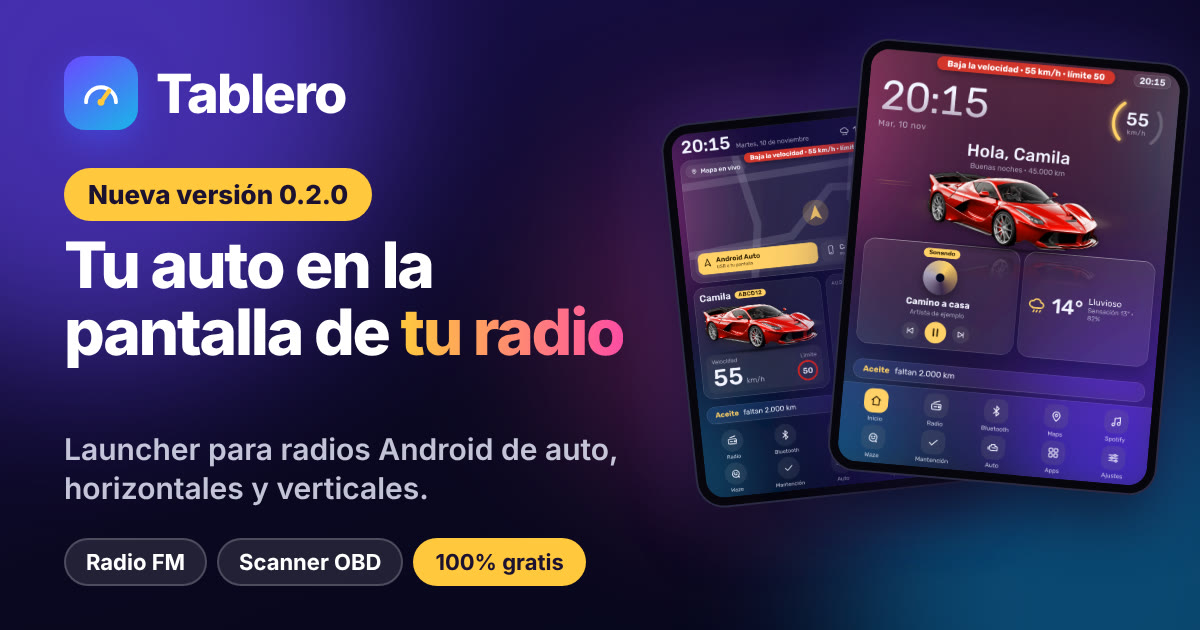
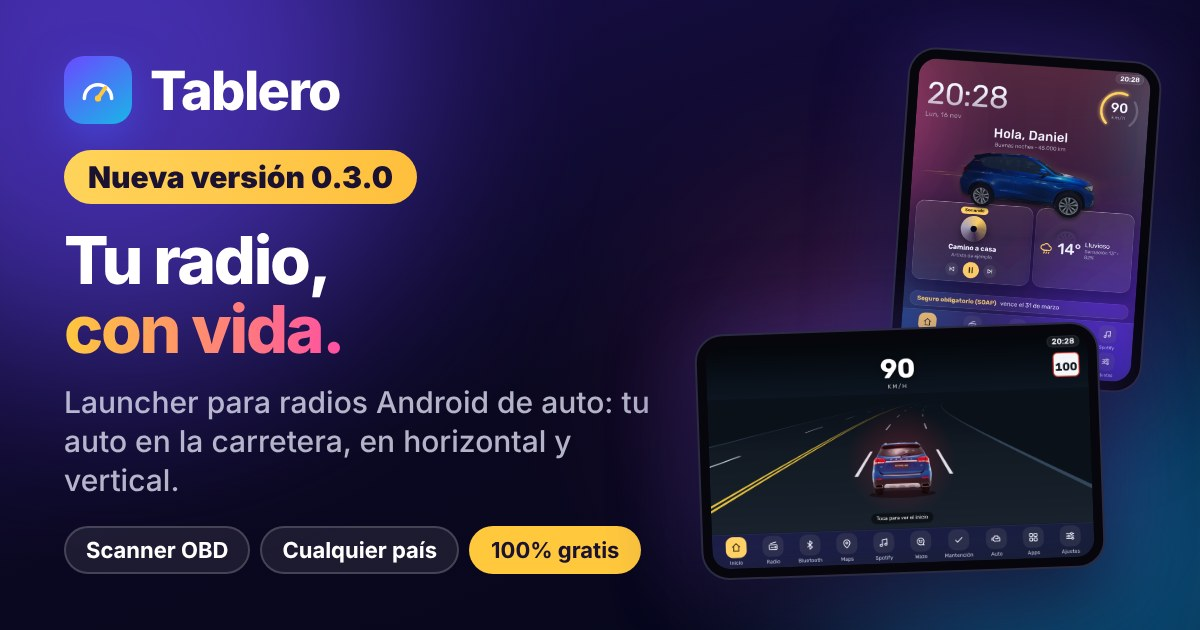
Versión 0.3.0: notas, y la imagen al compartir el enlace
Claude-Session: https://claude.ai/code/session_01CvVERnARSxC3TTNL2qde9Y

diff --git a/public/index.html b/public/index.html
@@ -18,7 +18,7 @@
   <meta property="og:image:type" content="image/jpeg">
   <meta property="og:image:width" content="1200">
   <meta property="og:image:height" content="630">
-  <meta property="og:image:alt" content="Tablero 0.2.0: pantallas verticales de la app en una radio de auto">
+  <meta property="og:image:alt" content="Tablero 0.3.0: tu radio con vida, con tu auto en la carretera y pantallas verticales">
   <meta name="twitter:card" content="summary_large_image">
   <meta name="twitter:title" content="Tablero · Tu auto en la pantalla de tu radio">
   <meta name="twitter:description" content="Launcher gratis para radios Android de auto, horizontales y verticales. Sin anuncios ni cuentas.">

diff --git a/CHANGELOG.md b/CHANGELOG.md
@@ -7,6 +7,10 @@ Cómo se publica una versión: `docs/RELEASE.md`.
 
 ## [Sin publicar]
 
+## [0.3.0] - 2026-11-16
+
+Tu radio, con vida: la pantalla de inicio gana movimiento (bienvenida, auto vivo y carretera con tu propia foto), las radios verticales se resuelven mejor y la app queda lista para cualquier país.
+
 ### Agregado
 - **Poster nuevo del video de la portada.** La imagen que se ve antes de reproducir el video ahora muestra las novedades (pantalla vertical, carretera al manejar y scanner OBD) con el título «Tu radio, con vida.».
 - **Foto de tu auto desde atrás, para la carretera.** Con el movimiento «Además, carretera», la radio ahora puede mostrar **tu auto de verdad** en la ruta, en vez del dibujo. En el sitio (paso «Tu auto») subes una foto trasera: si ya viene sin fondo se usa tal cual, y si no se lo quitamos en tu celular; la app que descargas «con mi diseño» ya la trae. En la app: Ajustes → Foto de tu auto desde atrás (tiene que ser un PNG con el auto ya recortado). Sin foto trasera, o si no carga, sigue el dibujo con tu color. La foto viaja una sola vez al pedir la descarga y no se guarda.
@@ -20,6 +24,7 @@ Cómo se publica una versión: `docs/RELEASE.md`.
 - **Prueba de los datos del auto (CAN bus).** En Ajustes → Diagnóstico de la radio → «Datos del auto (CAN)»: busca las apps de CanBus de la radio (Raise, Hiworld, etc.), muestra qué ofrecen a otras apps, si los puertos serie son accesibles y escucha los avisos que mandan mientras subes las RPM o cambias el clima. Se puede copiar o compartir. Sirve para saber si Tablero podrá mostrar esos datos en tu radio; solo lee, no guarda ni manda nada.
 
 ### Cambiado
+- **La imagen al compartir el enlace del sitio** (WhatsApp, redes) ahora dice «Nueva versión 0.3.0» y muestra la carretera y la pantalla vertical.
 - **Las actualizaciones dentro de la app se verifican antes de instalarse.** Antes de entregar la APK nueva al instalador de Android, la app comprueba que sea exactamente la publicada (huella SHA-256 y tamaño) y, en Android 9 o más nuevo, que esté firmada con la misma clave de Tablero. Si algo no cuadra, no se instala nada y avisa. Ajustes → Actualizaciones muestra además de qué commit salió tu versión.
 - **Una sola numeración de versiones.** Las versiones de la descarga pública y de los releases ahora siguen la misma cuenta (1000 + commits), que solo crece. Con esto las radios con la app instalada pueden actualizar siempre sin importar de dónde bajaron la anterior. Por única vez el número salta a más de 1000.
 
